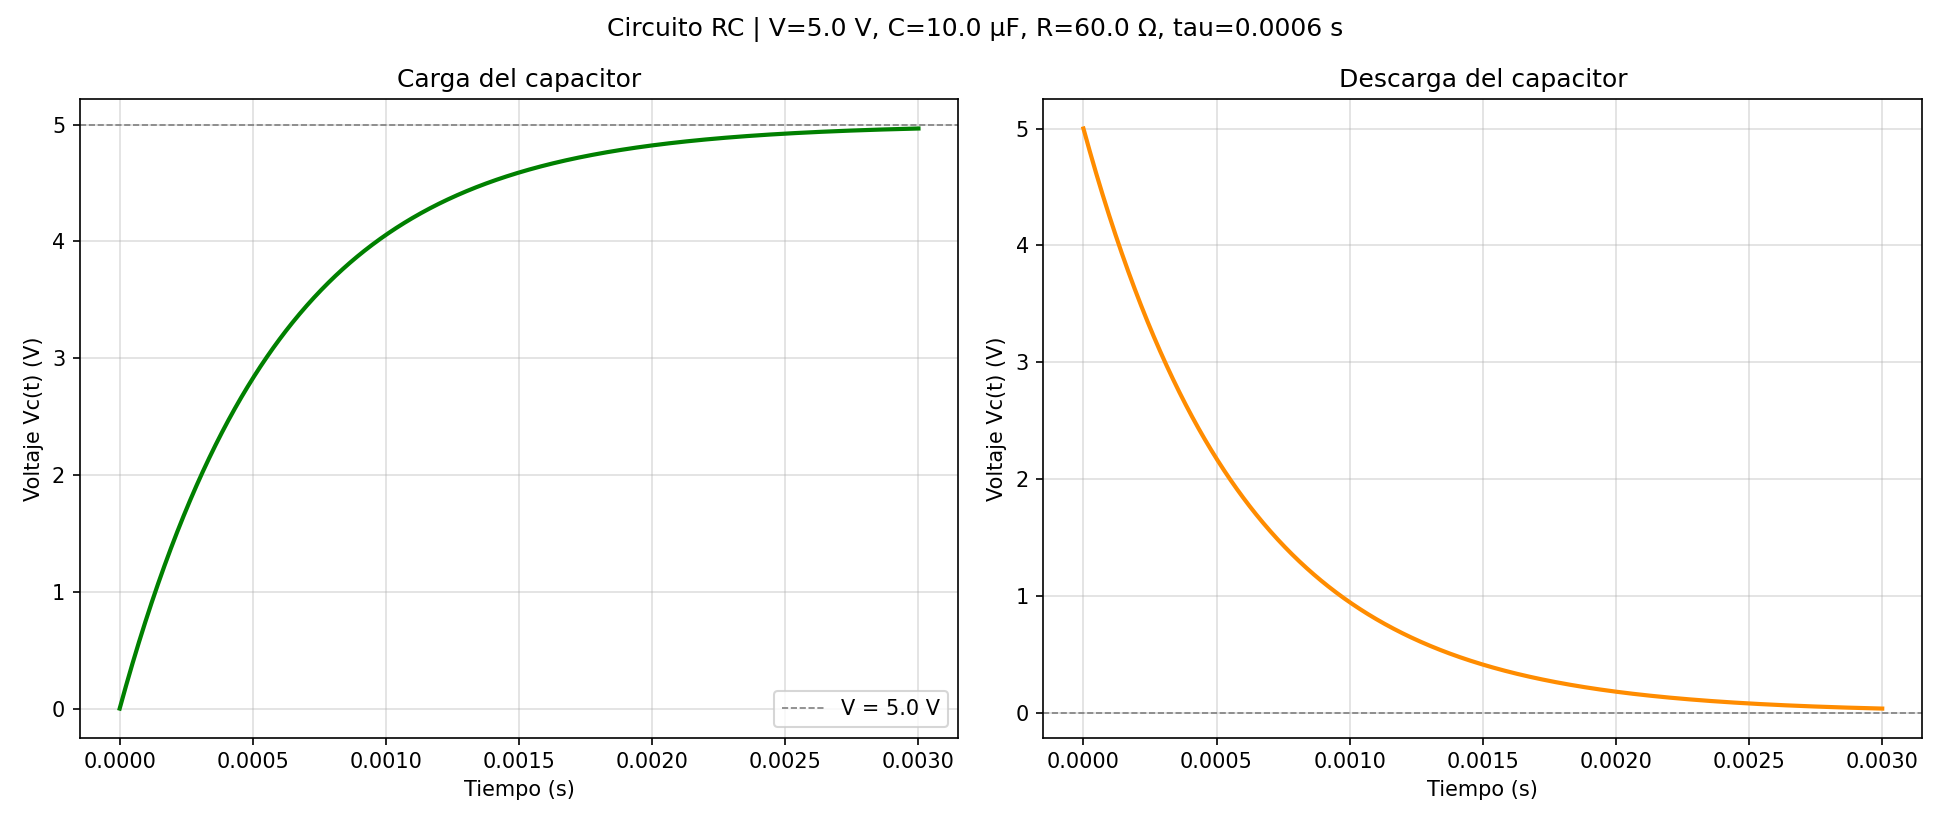
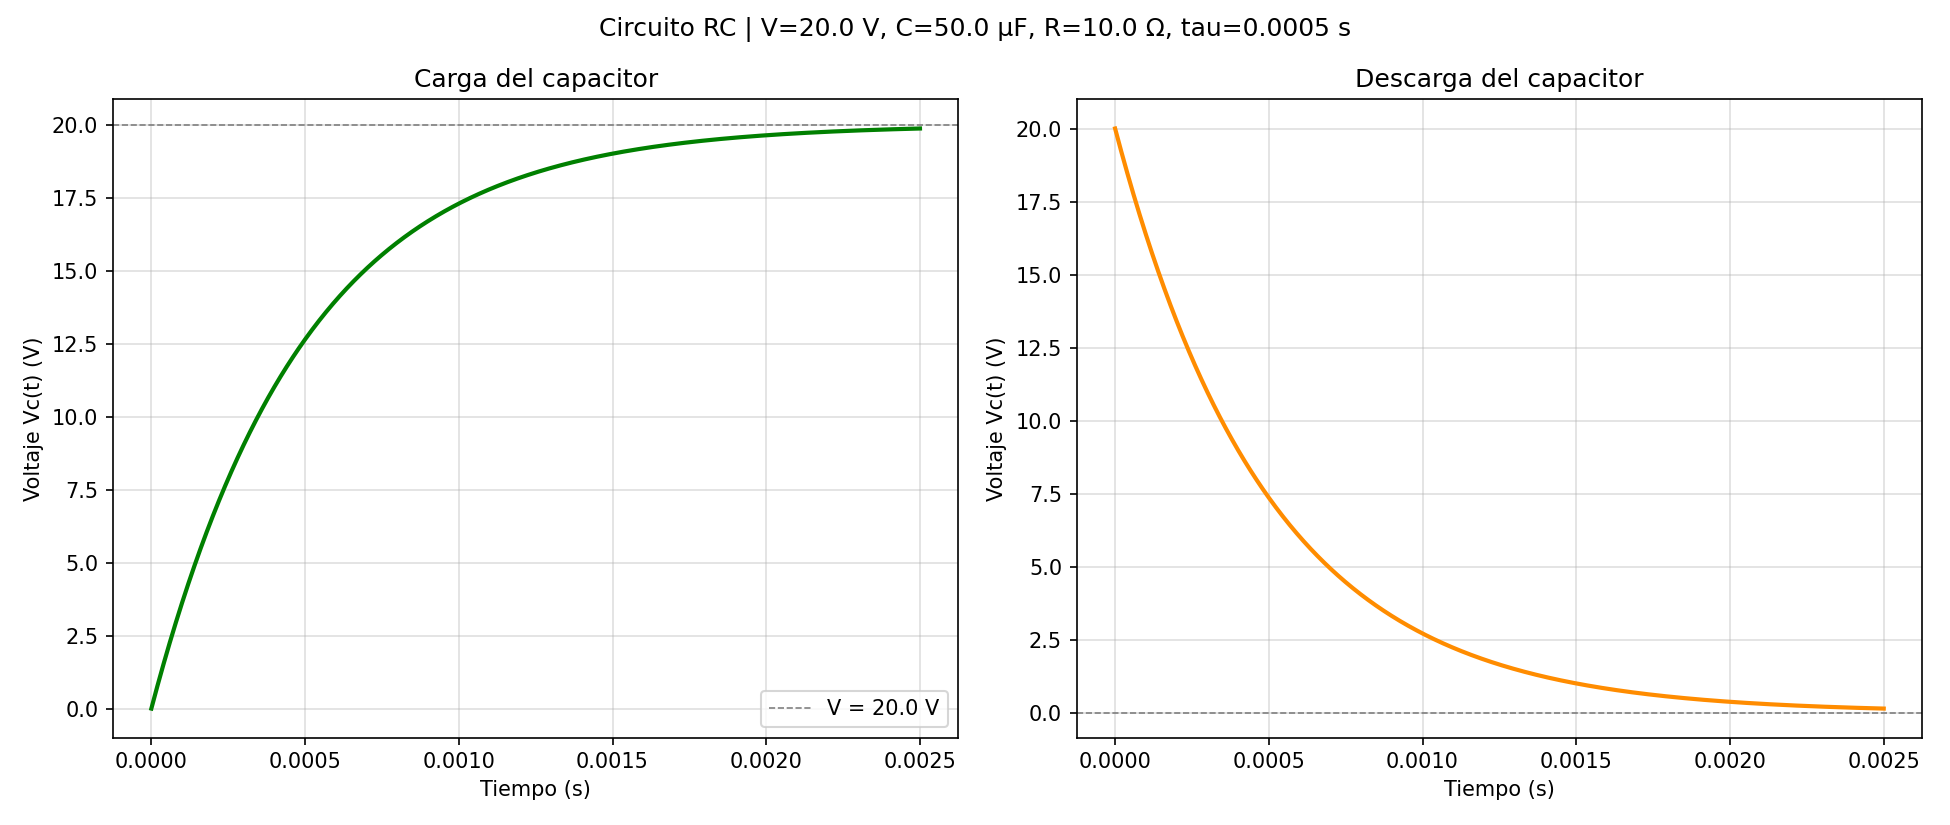
Parte C punto 3

diff --git a/ParteC/Punto3.py b/ParteC/Punto3.py
@@ -1,52 +1,67 @@
-#Implemente la ecuación de carga y descarga para un circuito RC. El usuario ingresa por teclado el 
-#valor de voltaje (V), capacitancia (𝜇𝐹) y resistencia (Ω).  Posteriormente realice en Python la gráfica.
-
 import numpy as np
 import matplotlib.pyplot as plt
 
-def main():
-    print("\n CIRCUITO RC: CARGA Y DESCARGA")
-    try:
-        V = float(input("Ingrese el voltaje de la fuente V (voltios): "))
-        C_uF = float(input("Ingrese la capacitancia C (microfaradios, µF): "))
-        R = float(input("Ingrese la resistencia R (ohmios): "))
-    except ValueError:
-        print("Debe ingresar valores numéricos.")
-        return
+# CIRCUITO RC: CARGA Y DESCARGA
+print("\nCIRCUITO RC: CARGA Y DESCARGA")
 
-    C = C_uF * 1e-6  # convertir µF a F
-    tau = R * C       # constante de tiempo (segundos)
+# Entrada de datos
+try:
+    V = float(input("Ingrese el voltaje de la fuente V (voltios): "))
+    C_uF = float(input("Ingrese la capacitancia C (microfaradios, µF): "))
+    R = float(input("Ingrese la resistencia R (ohmios): "))
+except ValueError:
+    print("Debe ingresar valores numéricos.")
+    exit()
 
-    # Vector de tiempo: se grafica hasta 5 constantes de tiempo (>99% del proceso)
-    t = np.linspace(0, 5 * tau, 1000)
+# Conversión de microfaradios a faradios
+C = C_uF * 1e-6
 
-    # Ecuaciones de carga y descarga
-    Vc_carga = V * (1 - np.exp(-t / tau))
-    Vc_descarga = V * np.exp(-t / tau)
+# Constante de tiempo
+tau = R * C
 
-    print(f"\nConstante de tiempo tau = R*C = {tau:.6f} s")
+# Vector de tiempo: hasta 5 constantes de tiempo
+t = np.linspace(0, 5 * tau, 1000)
 
-    fig, axs = plt.subplots(1, 2, figsize=(13, 5.5))
+# Ecuaciones de carga y descarga
+Vc_carga = V * (1 - np.exp(-t / tau))
+Vc_descarga = V * np.exp(-t / tau)
 
-    axs[0].plot(t, Vc_carga, color="green", linewidth=2)
-    axs[0].axhline(V, color="gray", linestyle="--", linewidth=0.8, label=f"V = {V} V")
-    axs[0].set_title("Carga del capacitor")
-    axs[0].set_xlabel("Tiempo (s)")
-    axs[0].set_ylabel("Voltaje Vc(t) (V)")
-    axs[0].grid(True, alpha=0.4)
-    axs[0].legend()
+# Mostrar constante de tiempo
+print(f"\nConstante de tiempo tau = R*C = {tau:.6f} s")
 
-    axs[1].plot(t, Vc_descarga, color="darkorange", linewidth=2)
-    axs[1].axhline(0, color="gray", linestyle="--", linewidth=0.8)
-    axs[1].set_title("Descarga del capacitor")
-    axs[1].set_xlabel("Tiempo (s)")
-    axs[1].set_ylabel("Voltaje Vc(t) (V)")
-    axs[1].grid(True, alpha=0.4)
+# Crear las dos gráficas
+fig, axs = plt.subplots(1, 2, figsize=(13, 5.5))
 
-    plt.suptitle(f"Circuito RC | V={V} V, C={C_uF} µF, R={R} Ω, tau={tau:.4f} s")
-    plt.tight_layout()
-    plt.savefig("circuito_RC.png", dpi=150)
-    plt.show()
+# Gráfica de carga
+axs[0].plot(t, Vc_carga, color="green", linewidth=2)
+axs[0].axhline(V, color="gray", linestyle="--",
+               linewidth=0.8, label=f"V = {V} V")
 
-if __name__ == "__main__":
-    main()
+axs[0].set_title("Carga del capacitor")
+axs[0].set_xlabel("Tiempo (s)")
+axs[0].set_ylabel("Voltaje Vc(t) (V)")
+axs[0].grid(True, alpha=0.4)
+axs[0].legend()
+
+# Gráfica de descarga
+axs[1].plot(t, Vc_descarga, color="darkorange", linewidth=2)
+axs[1].axhline(0, color="gray", linestyle="--", linewidth=0.8)
+
+axs[1].set_title("Descarga del capacitor")
+axs[1].set_xlabel("Tiempo (s)")
+axs[1].set_ylabel("Voltaje Vc(t) (V)")
+axs[1].grid(True, alpha=0.4)
+
+# Título general
+plt.suptitle(
+    f"Circuito RC | V={V} V, C={C_uF} µF, "
+    f"R={R} Ω, tau={tau:.4f} s"
+)
+
+plt.tight_layout()
+
+# Guardar la gráfica
+plt.savefig("circuito_RC.png", dpi=150)
+
+# Mostrar la gráfica
+plt.show()
